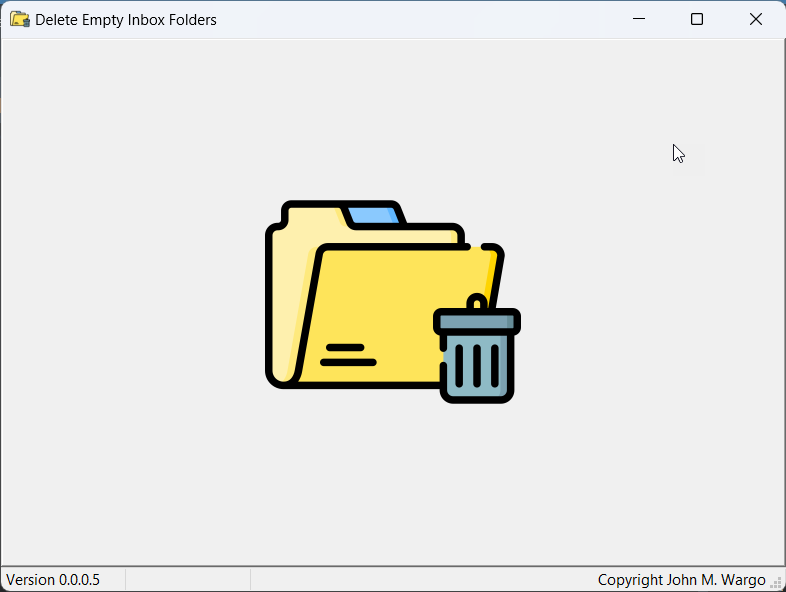
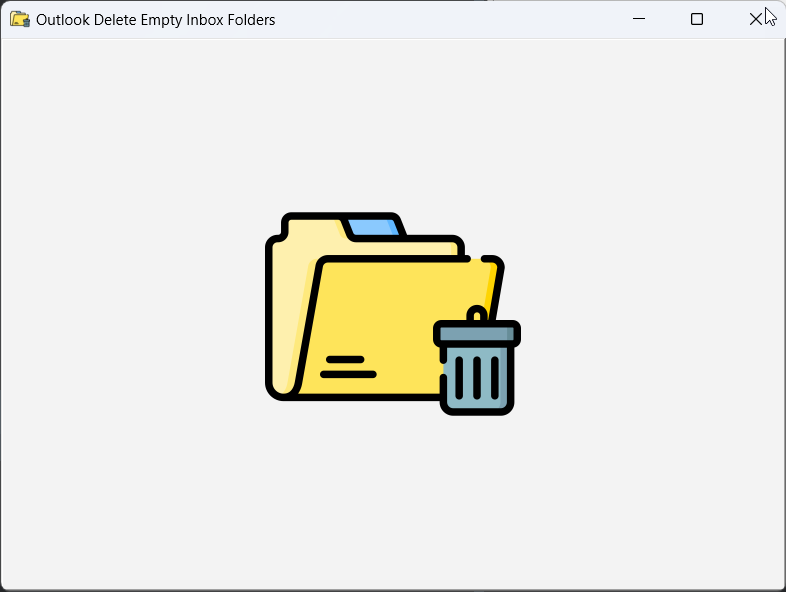
updated form caption and screen shots

diff --git a/readme.md b/readme.md
@@ -19,7 +19,7 @@ Outlook users that leverage Outlook's Archive feature to move older items to an 
 
 This application is a simple utility for Microsoft Windows that automatically deletes all empty Inbox folders in a user's default Outlook Profile. 
 
-When you start the application, a splash screen appears for three seconds as shown below.
+When you start the application, a splash screen appears for two seconds as shown below.
 
 ![Application Splash Screen](/images/figure-01.png)
 
